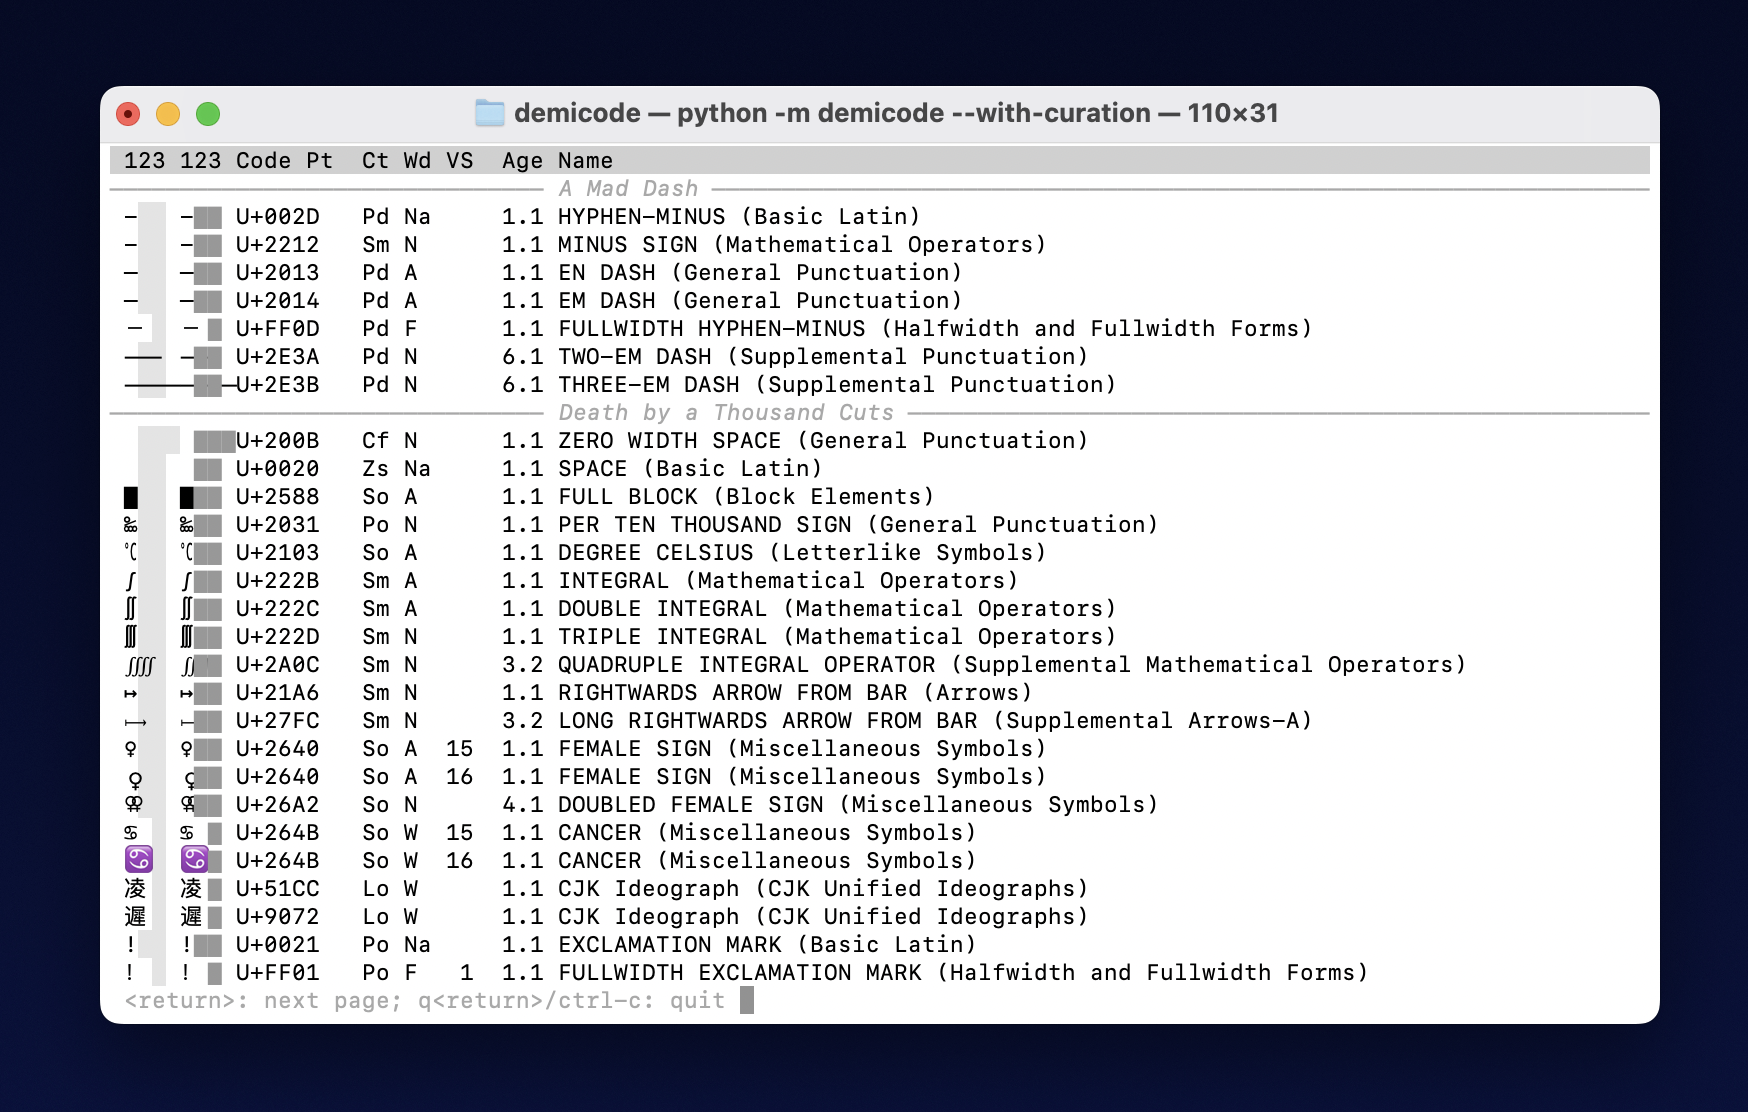
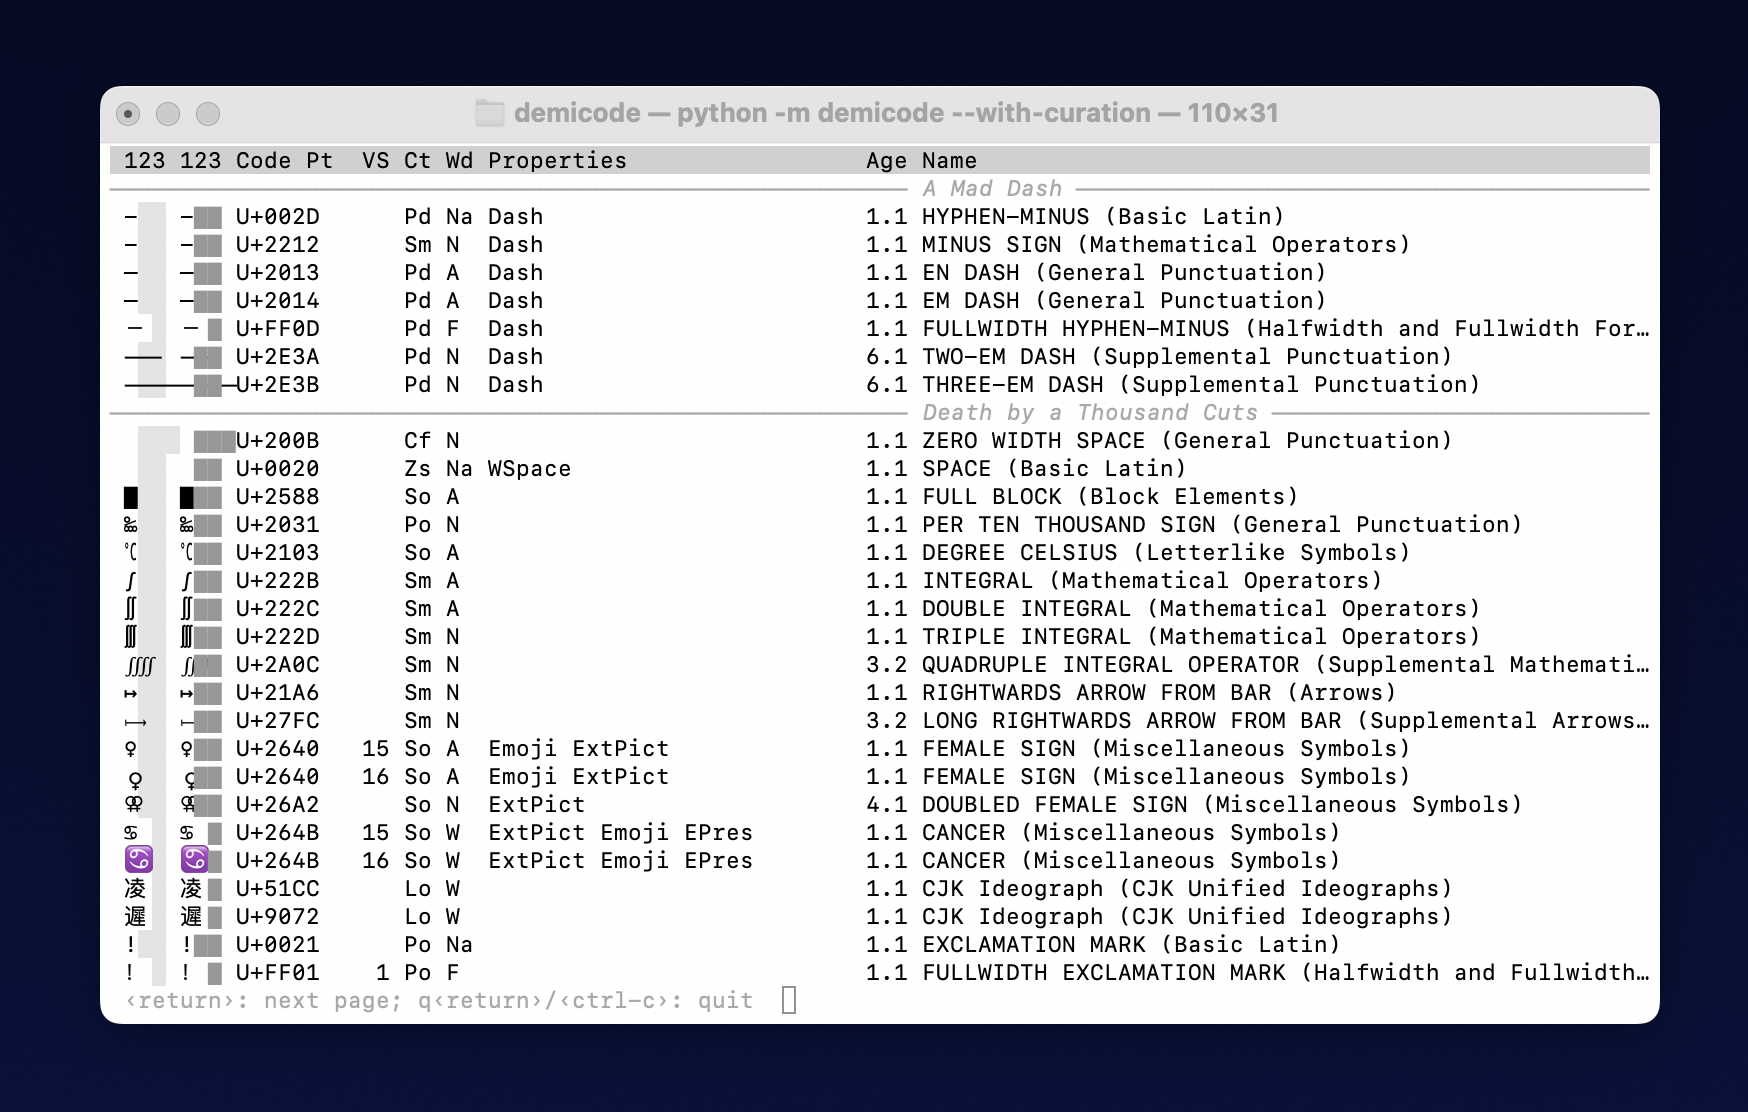
Update description of grapheme-per-line format, screen shot

Changed region(s): [[0.2162, 0.0917, 0.9268, 0.9173], [0.0618, 0.0917, 0.1236, 0.1223]]

diff --git a/README.md b/README.md
@@ -48,12 +48,21 @@ August 2023.
 
 By default, demicode displays **one grapheme per line**. Each line starts with
 the background and foreground blot for a primary Unicode code point and then
-continues with hopefully informative metadata. In particular, it shows the
-number of the code point, the code point's general category, the value of the
-code point's East_Asian_Width property, whether the code point is being shown
-with one of the 16 variation selectors, the Unicode version that first assigned
-the code point, and finally the code point's name and Unicode block in
-parentheses.
+continues with hopefully informative metadata:
+
+  * The code point;
+  * The number of the subsequent variation selector (if any);
+  * The general category of the code point;
+  * Its East Asian width;
+  * Binary properties by the short aliases;
+  * The age, i.e., the Unicode version that first assigned the code point;
+  * The name followed by the parenthesized block.
+
+While not all binary properties are supported, properties relating to
+pictographs and emoji are included. They are `Emoji`, `Emoji_Component`,
+`Emoji_Modifier`, `Emoji_Modifier_Base`, `Emoji_Presentation`, and
+`Extended_Pictographic`. The short aliases are `Emoji`, `EComp`, `EMod`,
+`EBase`, `EPres`, and `ExtPict`.
 
 Demicode also supports the **more compact `--in-grid` format**, which omits all
 metadata and lines up as many blots per line as window width and good taste
@@ -269,6 +278,8 @@ just grow into a more general library for accessing the UCD.
 
 ## Versions
 
+  - **v0.3.0** (2033/08/??) Expose binary emoji properties, log server accesses,
+    add tests, and improve property count statistics.
   - **v0.2.0–0.2.3** (2023/08/13) First advertised release, with more robust UCD
     mirroring, more elaborate output, and support for dark mode. Alas,
     screenshot links and README still needed some TLC.
